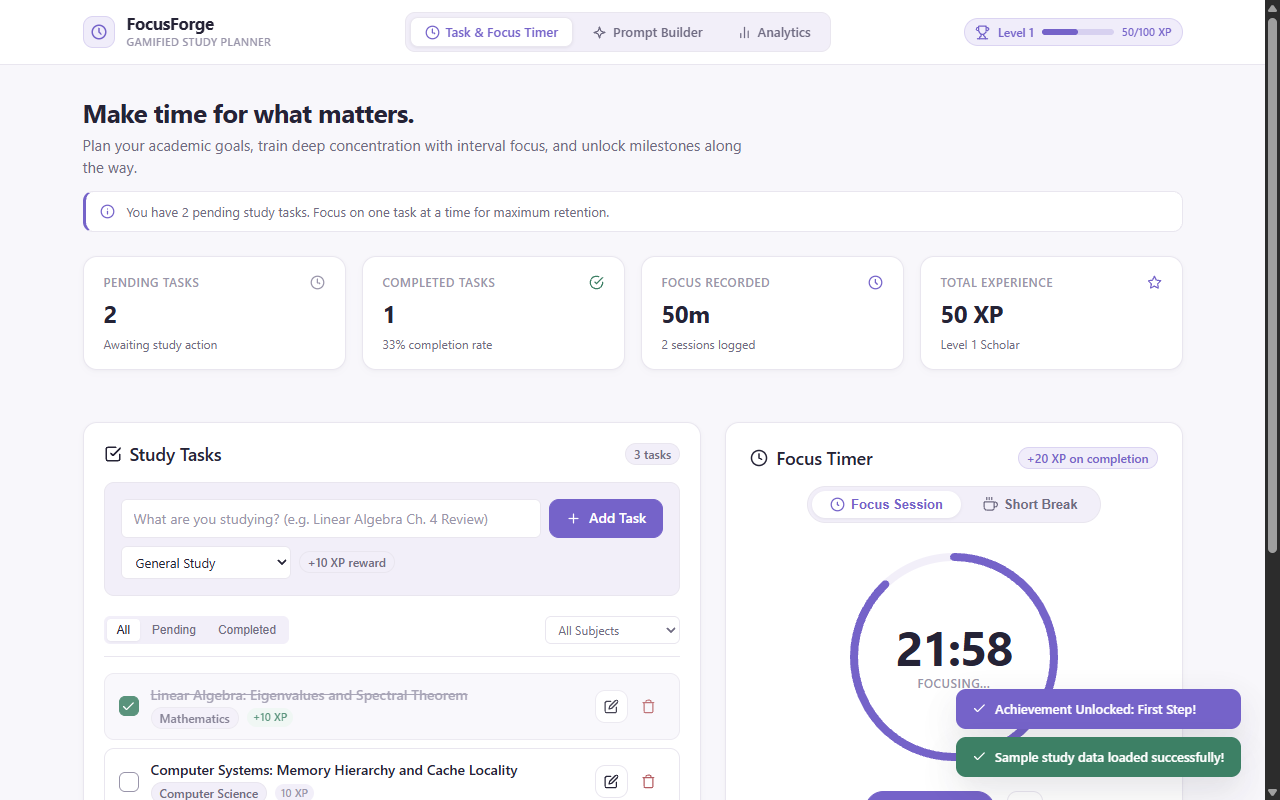
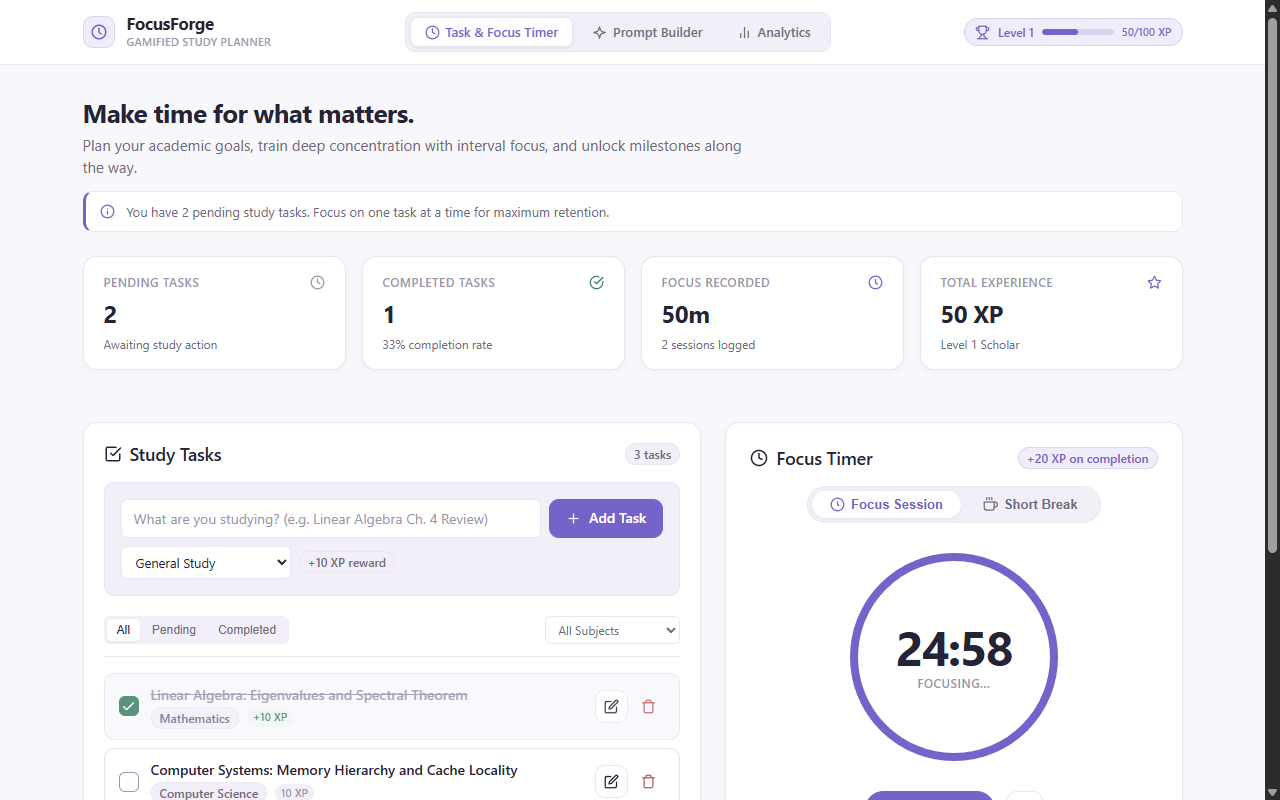
fix(security, screenshots): remove API key from URL query strings, update footer copy, and recapture clean screenshots without toast overlays

Changed region(s): [[0.75, 0.8438, 0.9688, 0.9688], [0.6875, 0.6875, 0.75, 0.75], [0.7188, 0.7812, 0.75, 0.8438]]

diff --git a/index.html b/index.html
@@ -2754,7 +2754,7 @@
       <div class="footer-inner">
         <div class="footer-left">
           <span style="font-weight: 600; color: var(--text-primary);">FocusForge — Gamified Study Planner</span>
-          <span>Designed for calm, distraction-free academic focus. All user data is securely stored locally in your browser.</span>
+          <span>Designed for calm, distraction-free academic focus. Your study tasks and progress are stored locally in this browser.</span>
         </div>
         <div class="footer-right">
           <button type="button" class="btn btn-secondary" id="btn-load-sample" style="font-size: 0.75rem; padding: 6px 12px;">
@@ -3504,7 +3504,7 @@ Please begin by introducing the core concept and initiating the first step.`;
 
       async function discoverModelsFromKey(apiKey) {
         try {
-          const listUrl = `https://generativelanguage.googleapis.com/v1beta/models?key=${encodeURIComponent(apiKey)}`;
+          const listUrl = 'https://generativelanguage.googleapis.com/v1beta/models';
           const res = await fetch(listUrl, {
             method: 'GET',
             headers: {
@@ -3628,7 +3628,7 @@ Please begin by introducing the core concept and initiating the first step.`;
 
           // Try up to 4 eligible models in case one experiences temporary traffic spikes
           for (const modelCandidate of candidatesToTest.slice(0, 4)) {
-            const url = `https://generativelanguage.googleapis.com/v1beta/models/${modelCandidate}:generateContent?key=${encodeURIComponent(apiKey)}`;
+            const url = `https://generativelanguage.googleapis.com/v1beta/models/${modelCandidate}:generateContent`;
             try {
               const response = await fetch(url, {
                 method: 'POST',
@@ -3693,7 +3693,7 @@ Please begin by introducing the core concept and initiating the first step.`;
       }
 
       async function generatePromptWithGemini(topic, goal, style, difficulty, extraNotes, apiKey) {
-        const url = `https://generativelanguage.googleapis.com/v1beta/models/${currentGeminiModel}:generateContent?key=${encodeURIComponent(apiKey)}`;
+        const url = `https://generativelanguage.googleapis.com/v1beta/models/${currentGeminiModel}:generateContent`;
 
         const systemPrompt = "You are an expert educational prompt engineer. Your task is to create a clear, detailed, copy-ready prompt that a learner can paste into an AI tutor. Do not answer the subject question itself. Instead, write the best possible instructions for another AI to act as a patient, effective tutor. Incorporate the learner's topic, goal, difficulty level, teaching style, and additional instructions. Include appropriate tutoring behavior, a useful response structure, practice or comprehension checks when relevant, and guidance for explaining mistakes. Write the generated prompt in clear English. Return only the finished prompt, without introductory commentary or an explanation of your own process.";
 
